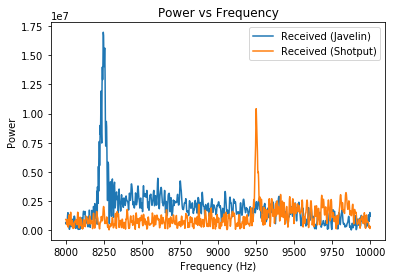
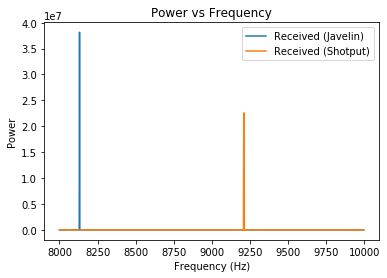
Temporarily defeated

diff --git a/challenge.py b/challenge.py
@@ -2,19 +2,19 @@
 """
 Created on Sun Jan 10 05:57:41 2021
 Garmin Challenge 2021
-@author: shaun
+@author: Shaun Struwig
 """
 
 from scipy.io.wavfile import read
 import numpy as np
 import os
 import matplotlib.pyplot as plt
-from scipy.fft import rfft, rfftfreq
+from scipy.fft import rfft, rfftfreq, irfft
 from scipy import signal
-
-#Constants
+from scipy.signal import correlate
 
 scriptDir = os.path.join(os.path.dirname(__file__),'sound-files')
+
 #Takes the audio file and returns the time series data
 def import_audio(fileName):
 
@@ -29,74 +29,122 @@ def get_time_step(fileName):
     sampleRate, data = read(os.path.join(scriptDir,fileName))
     return 1/sampleRate
 
+#Crude filtering method, makes values below a certain threshhold 0
+def filter_data(threshHold,fftArray,filteredArray):
+    for i in range(0,len(fftArray)):
+        if np.abs(fftArray[i]) < threshHold:
+            filteredArray.append(0)
+        else:
+            filteredArray.append(fftArray[i])
+
+#Detects the max frequency
 def simple_peak_detect(x,y):
     index = np.argmax(y,axis=0)
     return x[index]
 
+#Calculates the speed using the doppler formula
 def calc_speed(fSource,fTarget):
     c = 343 #343m/s
     delta_f = np.abs(fSource-fTarget)
-    return (delta_f/fSource)*(343/2)
+    return (delta_f/fSource)*(c/2)
+
+#Estimate the angle  
+def estimate_angle(fSource,fTarget,vTarget):
+    c = 343 #343m/s
+    delta_f = np.abs(fSource-fTarget)
+    theta = delta_f/(2*fSource*(vTarget/c))
+    print(theta)
     
 
-
+### Load in the data from .wav files ###
+    
 T = get_time_step('Transmit_1.wav')
 timeTransmit, dataTransmit = import_audio(os.path.join(scriptDir,'Transmit_1.wav'))
 N=len(dataTransmit)
 timeJavelin, dataJavelin = import_audio(os.path.join(scriptDir,'Javelin_receive_1.wav'))
 timeShotput, dataShotput = import_audio(os.path.join(scriptDir,'Shotput_receive_1.wav'))
 
-#Taking the FFT of the time series data
+### Obtain FFTs of all three signals ###
 
-### FFT plot of all three ###
 yf = rfft(dataTransmit)
 xf = rfftfreq(N, T)
 
-plt.figure()
+yf2 = rfft(dataJavelin)
+xf2 = rfftfreq(N, T)
 
+yf3 = rfft(dataShotput)
+xf3 = rfftfreq(N, T)
+
+### Plot the FFT of all trhee signals (no filtering) ### 
+
+plt.figure()
 plt.plot(xf[4000:6000], np.abs(yf)[4000:6000],label='Transmitted Signal')
-
+plt.plot(xf2[4000:6000], np.abs(yf2)[4000:6000],label='Received (Javelin)')
+plt.plot(xf2[4000:6000], np.abs(yf2)[4000:6000],label='Received (Shotput)')
 plt.title('Power vs Frequency')
 plt.xlabel('Frequency (Hz)')
 plt.ylabel('Power')
-
-yf2 = rfft(dataJavelin)
-xf2 = rfftfreq(N, T)
-plt.plot(xf2[4000:6000], np.abs(yf2)[4000:6000],label='Received (Javelin)')
-
-yf3 = rfft(dataShotput)
-xf3 = rfftfreq(N, T)
-plt.plot(xf2[4000:6000], np.abs(yf2)[4000:6000],label='Received (Shotput)')
-
 plt.legend()
 
-### FFT plot of return signals###
+### FFT plot of return signals ###
 
-b, a = signal.butter(2, 0.3)
+#Defines
+yf2clean = []
+yf3clean = []
+
+### Filter the two received signals ###
+
+xf2 = rfftfreq(N, T)
+yf2 = rfft(dataJavelin)
+filter_data(3.5*10**7,np.abs(yf2),yf2clean)
+dataJavelinClean = irfft(yf2clean) #back to time domain
+
+
+xf3 = rfftfreq(N, T)
+yf3 = rfft(dataShotput)
+filter_data(2.0*10**7,np.abs(yf3),yf3clean)
+dataShotputClean = irfft(yf3clean) #back to time domain
+
+### Plot the two received signals after filtering ###
 
 plt.figure()
-
 plt.title('Power vs Frequency')
 plt.xlabel('Frequency (Hz)')
 plt.ylabel('Power')
-
-yf2 = rfft(dataJavelin)
-yf2clean = signal.filtfilt(b, a, yf2, padlen=150)
-xf2 = rfftfreq(N, T)
-plt.plot(xf2[4000:5000], np.abs(yf2clean)[4000:5000],label='Received (Javelin)')
-
-yf3 = rfft(dataShotput)
-yf3clean = signal.filtfilt(b, a, yf3, padlen=150)
-xf3 = rfftfreq(N, T)
-plt.plot(xf3[4000:5000], np.abs(yf3clean)[4000:5000],label='Received (Shotput)')
+plt.plot(xf2, np.abs(yf2clean),label='Received (Javelin)')
+plt.plot(xf3[100:], np.abs(yf3clean)[100:],label='Received (Shotput)') #From 100 onwards to get rid of the DC component value
 plt.legend()
+plt.xlim(8000,9500)
 
-fTransmit = simple_peak_detect(xf[4000:],yf[4000:])
-fJavelin = simple_peak_detect(xf2[4000:5000],yf2clean[4000:5000])
-fShotput = simple_peak_detect(xf3[4000:5000],yf3clean[4000:5000])
 
-print(calc_speed(fTransmit,fJavelin))
-print(calc_speed(fTransmit,fShotput))
+### Obtain the frequencies of the signals ###
+
+fTransmit = simple_peak_detect(xf,yf)
+fJavelin = simple_peak_detect(xf2,yf2clean)
+fShotput = simple_peak_detect(xf3[100:],yf3clean[100:])
+
+print('Frequency of Transmited Signal: {}KHz '.format(fTransmit/1000))
+print('Frequency of Received Signal (Javelin): {}KHz '.format(fJavelin/1000))
+print('Frequency of Received Signal (Shotput): {}KHz '.format(fShotput/1000))
+
+### Calculate The speeds ###
+
+vJavelin = calc_speed(fTransmit,fJavelin)
+vShotput = calc_speed(fTransmit,fShotput)
+print('Speed for Javelin: {}m/s '.format(vJavelin))
+print('Speed for Shotput: {}m/s '.format(vShotput))
+
+### BONUS ###
+
+correlation = correlate(dataTransmit,dataJavelinClean)
+maxValue = np.argmax(correlation,axis=0)
+print('Phase shift estimate between Transmitted and Javelin Received: {}s'.format(maxValue*T))
+
+correlation2 = correlate(dataTransmit,dataShotputClean)
+maxValue2 = np.argmax(correlation2,axis=0)
+print('Phase shift estimate between Transmitted and Shotput: {}s'.format(maxValue2*T))
+
+
 
 
 

diff --git a/README.md b/README.md
@@ -6,15 +6,16 @@ I've been given three sound files. The first is a recording of a transmission si
 ## Assumptions
 
 - Assume that the transmitter/receive system is stationary.
-- Assume that the velocities of the objects involved in this problem are less than the speed of light i.e) they share a common frame of reference... sorry Einstein, next time! 
+- Assume that the velocities of the objects involved in this problem are less than the speed of light i.e) they share a common frame of reference... sorry Albert, maybe next time! 
+- For a start assume that the transmitter/receive system is parallel to the sportsman. 
 
 ## Approach
 
-The first thing that came to mind was a speed gun, a device which uses EM waves and the doppler effect to measure the velocity of the object. I have a gut feel that this problem involves the doppler effect and that it would involve extracting the frequency information of the signals as there isn't much else to go on. I thought of the radar equation but I'm not sure how that transfers to audio + i'd need things like radar cross section and gain etc.
+The first thing that came to mind after reading the challenge was a speed gun, a device which uses EM waves and the doppler effect to measure the velocity of the object. I have a gut feel that this problem involves the doppler effect in some way and that it would involve extracting the frequency information of the signals as there isn't much else to go on. I thought of the radar equation but I'm not sure how that transfers to audio, plus i'd need things like radar cross section and gain etc.
 
 I first wrote a simple python script (see challenge.py) to read the .wav data and to plot the FFT of the data to see the frequency information. 
 
-The FFT of the transmit signal shows a clear spike in power at around 10kHz. The receiving signals are noisy - so I do some filtering on those just by applying a low pass filter. Plotting the cleaner data I can see clear spikes in power at a little more than 8kHz for the Javelin and a little more than 9kHz for the shotput. This makes sense to me as the drop in frequency (red-shift) would indicate that the target is moving **away** from the observer.
+The FFT of the transmit signal shows a clear spike in power at around 10kHz. The receiving signals are noisy - so I do some crude filtering on those signals first, just by visually inspecting where the peaks are and then zeroing below a threshhold value. Plotting the cleaner data I can see clear spikes in power at a little more than 8kHz for the Javelin and a little more than 9kHz for the shotput. This makes sense to me as the drop in frequency (red-shift) would indicate that the target is moving **away** from the observer. Shown below in the first image a plot of the frequency information for all three and then in image two, the filtered data for the received signals. 
 
 ![All Signals](/images/All_unfiltered.png)
 
@@ -32,14 +33,46 @@ With this information I can use the doppler formula found here:
 
 ## Results   
 
-I calculate around 29.738m/s for the Javelin and 12.9m/s for the shotput. 
+I calculate a release speed of around **32.04m/s** for the Javelin and **13.51m/s** for the shotput. 
 
-A quick google search for average [Javelin throwspeed!](https://theconversation.com/science-of-the-spear-biomechanics-of-a-javelin-throw-29782#:~:text=The%20average%20maximum%20run%20up,of%20the%20final%20two%20steps.)
+A quick google search for average [Javelin throwspeed](https://theconversation.com/science-of-the-spear-biomechanics-of-a-javelin-throw-29782#:~:text=The%20average%20maximum%20run%20up,of%20the%20final%20two%20steps.)
 
 >The average maximum run up speed of an elite thrower ranges from 5-6m/s (20km/h), but elite throwers release the javelin at 28-30m/s
 
-[For shotput!](https://www.quinticsports.com/performance-analysis-shot-put/#:~:text=The%20average%20shot%20velocity%20at,ms%2D1%20for%20athlete%20B.)
+[For shotput](https://www.quinticsports.com/performance-analysis-shot-put/#:~:text=The%20average%20shot%20velocity%20at,ms%2D1%20for%20athlete%20B.)
 
 >The average shot velocity at release was 10.24ms-1 for athlete A and 9.40ms-1 for athlete B.
 
-So the numbers calculated at least seem plausible. 
+So the numbers calculated at least seem plausible, if not a little high. However this is to be expected because the assumption was made that the tracker was inline with the thrower, where in reality it will be off to the side, so the actual speed here is not correct. 
+
+## BONUS
+
+After a bit more googling I've come across something called "Doppler Angle", mostly in the context of ultrasound. The basic idea is that if you're measuring a flow of blood, you will be measuring at an angle which introduces error unless the beam is transmitted parallel to the flow of blood (not possible).I.e when measuring you want to be as close to an angle of 0 degrees as you can. This formula is given for the doppler angle:
+
+[\Large \Delta f = 2f_t\frac{V}{c}\cos\Theta](https://latex.codecogs.com/svg.latex?\Delta f&space;f&space;=&space;2f_t\frac{V}{c}\cos\Theta) 
+
+Previously I made the assumption that the tracker was parallel to the thrower previously - in practise that is not correct which means that there is an error on the speeds above.
+
+### Ideas
+
+Have been thinking of a way that I could solve for the Cosine angle geometrically but I think it might be more complex than that. One idea was maybe to generate my own signals for a variety of angles and then do a cross-correlation between the given signals and my own generated one and see which gives the maximum value. With that however there are multiple unknowns, the velocity of the moving target, the doppler frequency and the angle. 
+
+Found this website on [Radar](https://www.radartutorial.eu/11.coherent/co06.en.html) 
+
+I'm a little rusty on my linear systems and signals knowledge but I do believe that I can obtain the phase difference between two signals by finding the maximum of the correlation between them (as seems to be confirmed [here](https://stackoverflow.com/questions/6157791/find-phase-difference-between-two-inharmonic-waves). 
+
+- Phase shift estimate between Transmitted and Javelin Received: 0.26582s
+- Phase shift estimate between Transmitted and Shotput Received: 0.50197s
+
+With that knowledge maybe I can work out the distance using this formula:
+
+[\Large \phi = - \frac{2r 2\pi}{\lambda}](https://latex.codecogs.com/svg.latex?\phi&space;=&space;-&space;\frac{2r&space;2\pi}{\lambda}) 
+
+Where phi is the phase-difference between the transmitted and the received signal and lambda is the wavelength of the transmitted energy. 
+
+So the distances between the two objects I get as 
+ 
+
+
+
+
